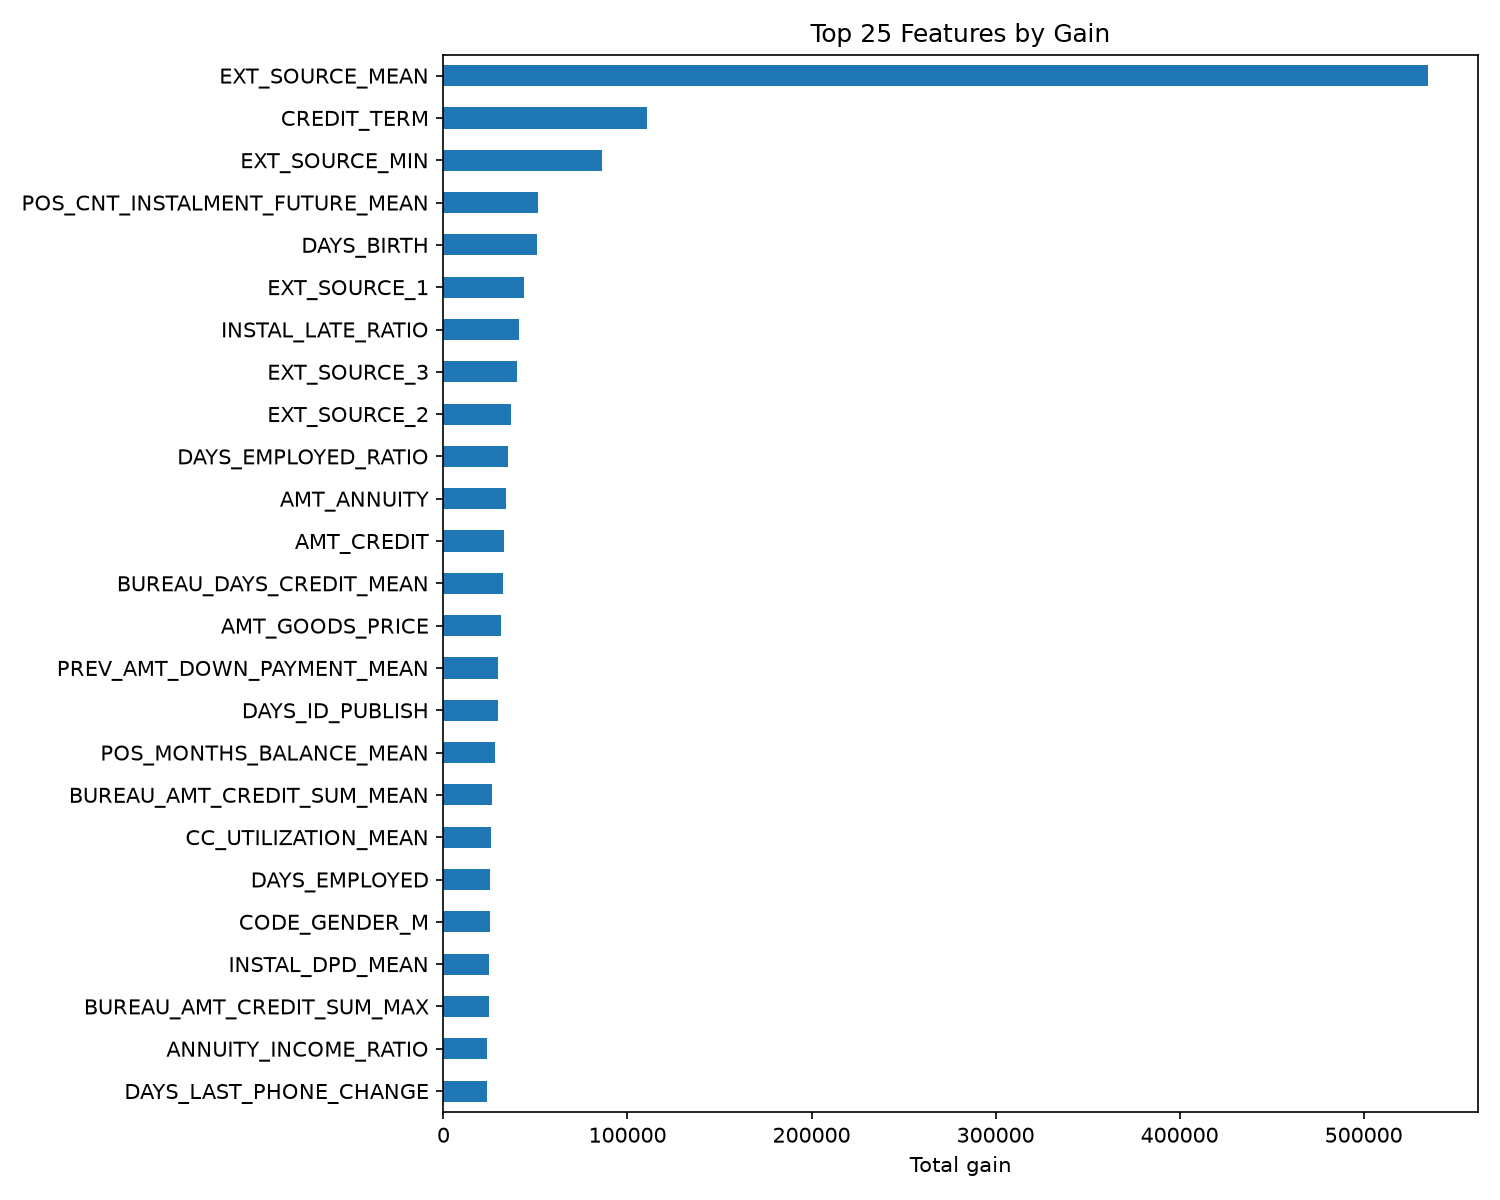
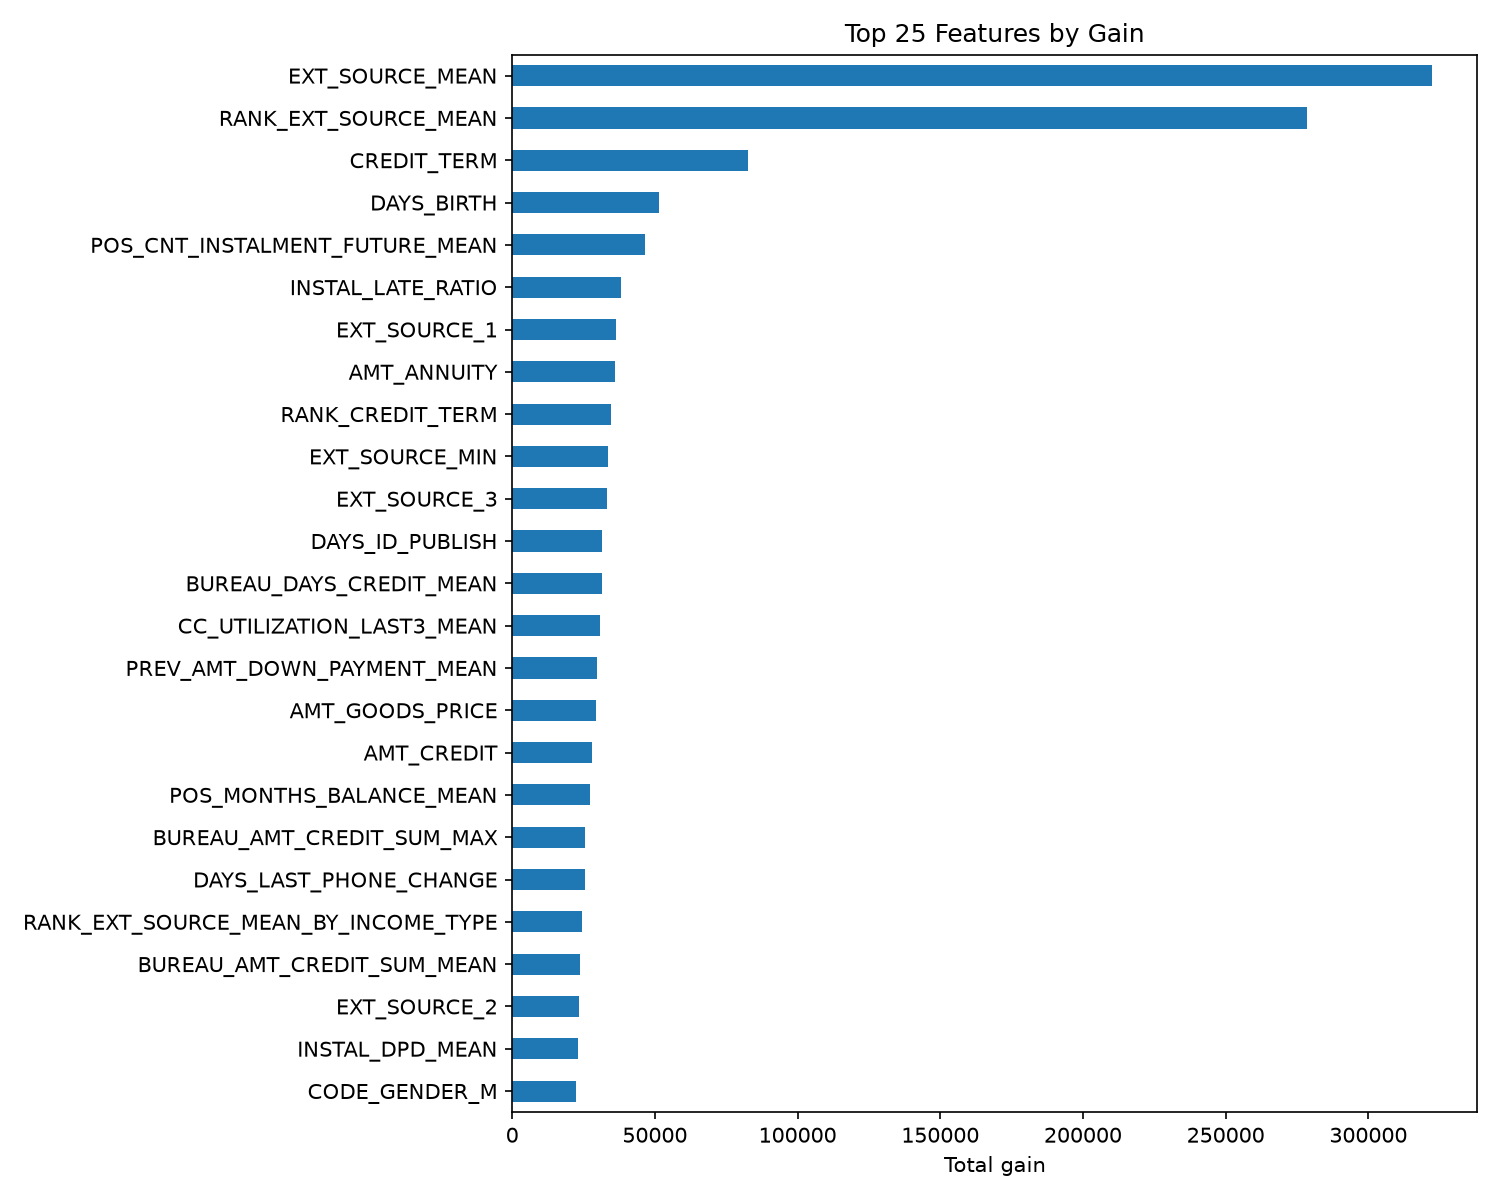
feat: peer-rank and trend/velocity features; retrain (CV AUC 0.7814)
- 6 global RANK_* percentile features + 3 cohort-relative ranks
  (rank edges fit on train, applied frozen to test — no leakage)
- Trend aggregators: last3-vs-full, trend, MoM diff for bureau DPD,
  POS DPD, and CC utilization/balance (33 new features total, 299 in model)
- Regenerated model artifacts: metrics, feature_importance, SHAP explainer
- README: document rank/trend families; recalibration note in Limitations

diff --git a/src/features/feature_engineering.py b/src/features/feature_engineering.py
@@ -133,6 +133,162 @@ def agg_credit_card(cc_df: pd.DataFrame) -> pd.DataFrame:
     return feats
 
 
+# ---------------------------------------------------------------------------
+# Trend / velocity aggregators — capture direction of change, not just level
+# (MONTHS_BALANCE is negative and relative to application date, so the
+# largest values are the most recent months).
+# ---------------------------------------------------------------------------
+
+def _recent_vs_full(sorted_df: pd.DataFrame, group_col: str, col: str,
+                    prefix: str) -> pd.DataFrame:
+    """Per-group last-3-month mean, full-history mean, trend, and MoM diff.
+
+    trend = last3_mean - full_mean  (positive => worsening for DPD/util)
+    diff  = month-over-month change of the series, aggregated mean/max
+    """
+    g = sorted_df.groupby(group_col)
+    feats = pd.DataFrame(index=g.size().index)
+    feats[f"{prefix}_MEAN"] = g[col].mean()
+    recent = g.tail(3).groupby(group_col)[col].mean()
+    feats[f"{prefix}_LAST3_MEAN"] = recent
+    feats[f"{prefix}_TREND"] = feats[f"{prefix}_LAST3_MEAN"] - feats[f"{prefix}_MEAN"]
+    diffs = g[col].diff()
+    feats[f"{prefix}_DIFF_MEAN"] = diffs.groupby(sorted_df[group_col]).mean()
+    feats[f"{prefix}_DIFF_MAX"] = diffs.groupby(sorted_df[group_col]).max()
+    return feats
+
+
+def agg_bureau_trends(bureau_df: pd.DataFrame, bureau_balance_df: pd.DataFrame) -> pd.DataFrame:
+    """Bureau monthly DPD trend features, lifted from loan level to client.
+
+    A client whose bureau DPD is climbing month over month is a different
+    risk than one who has been flat at the same average.
+    """
+    bb = bureau_balance_df.copy()
+    bb["DPD"] = bb["STATUS"].map(STATUS_TO_DPD)
+    bb = bb.sort_values(["SK_ID_BUREAU", "MONTHS_BALANCE"])
+
+    loan_feats = _recent_vs_full(bb, "SK_ID_BUREAU", "DPD", "BB_DPD")
+    bur = bureau_df[["SK_ID_CURR", "SK_ID_BUREAU"]].merge(
+        loan_feats, on="SK_ID_BUREAU", how="inner"
+    )
+    client = bur.groupby("SK_ID_CURR")[loan_feats.columns].mean()
+    client = client.rename(columns={
+        "BB_DPD_LAST3_MEAN": "BUREAU_DPD_LAST3_MEAN",
+        "BB_DPD_TREND": "BUREAU_DPD_TREND",
+        "BB_DPD_DIFF_MEAN": "BUREAU_DPD_DIFF_MEAN",
+        "BB_DPD_DIFF_MAX": "BUREAU_DPD_DIFF_MAX",
+    })
+    return client[["BUREAU_DPD_LAST3_MEAN", "BUREAU_DPD_TREND",
+                   "BUREAU_DPD_DIFF_MEAN", "BUREAU_DPD_DIFF_MAX"]]
+
+
+def agg_pos_trends(pos_df: pd.DataFrame) -> pd.DataFrame:
+    """POS/cash DPD direction-of-change features per SK_ID_CURR."""
+    pos = pos_df.sort_values(["SK_ID_CURR", "MONTHS_BALANCE"])
+    feats = _recent_vs_full(pos, "SK_ID_CURR", "SK_DPD", "POS_SK_DPD")
+    feats = feats.join(_recent_vs_full(pos, "SK_ID_CURR", "SK_DPD_DEF", "POS_SK_DPD_DEF"))
+    return feats
+
+
+def agg_credit_card_trends(cc_df: pd.DataFrame) -> pd.DataFrame:
+    """Credit-card utilization and balance velocity per SK_ID_CURR.
+
+    Rising utilization into the application is the classic distress signal.
+    """
+    cc = cc_df.copy()
+    cc["UTILIZATION"] = cc["AMT_BALANCE"] / (cc["AMT_CREDIT_LIMIT_ACTUAL"] + 1)
+    cc = cc.sort_values(["SK_ID_CURR", "MONTHS_BALANCE"])
+    feats = _recent_vs_full(cc, "SK_ID_CURR", "UTILIZATION", "CC_UTILIZATION")
+    feats = feats.join(_recent_vs_full(cc, "SK_ID_CURR", "AMT_BALANCE", "CC_AMT_BALANCE"))
+    return feats
+
+
+# ---------------------------------------------------------------------------
+# Peer-rank (cross-sectional percentile) features
+# ---------------------------------------------------------------------------
+
+RANKED_FEATURES = [
+    "CREDIT_INCOME_RATIO",
+    "ANNUITY_INCOME_RATIO",
+    "CREDIT_TERM",
+    "DAYS_EMPLOYED_RATIO",
+    "INCOME_PER_PERSON",
+    "EXT_SOURCE_MEAN",
+]
+
+# value feature -> list of cohort columns to rank within
+GROUP_RANKS = {
+    "CREDIT_INCOME_RATIO": ["NAME_INCOME_TYPE", "ORGANIZATION_TYPE"],
+    "EXT_SOURCE_MEAN": ["NAME_INCOME_TYPE"],
+}
+
+RANK_EDGES_PATH = "data/processed/rank_edges.json"
+
+
+def _edges_from_series(s: pd.Series) -> list[float]:
+    """101 quantile cut points (0..1) approximating the full rank distribution."""
+    return [float(v) for v in s.quantile(np.linspace(0, 1, 101))]
+
+
+def _pct_rank(values: pd.Series, edges: list[float]) -> pd.Series:
+    """Percentile of each value against fixed cut points (no refitting)."""
+    return pd.Series(
+        np.searchsorted(np.asarray(edges), values.to_numpy(), side="right") / 100.0,
+        index=values.index,
+    )
+
+
+def _add_rank_features(df: pd.DataFrame, fit_ranks: bool = True,
+                       edges_path: str = RANK_EDGES_PATH) -> pd.DataFrame:
+    """Add RANK_* columns, fit on train / apply frozen cut points to test.
+
+    On the training split the quantile edges (global and per cohort) are
+    computed from train rows only and saved to ``edges_path``; on any later
+    split those same edges are loaded and reused, so test rows never leak
+    into the ranking. Unseen cohort values fall back to the global edges.
+    """
+    import json as _json
+    from pathlib import Path as _Path
+
+    fill = {c: df[c].median() for c in RANKED_FEATURES}
+
+    if fit_ranks:
+        edges: dict = {"__global__": {}, "__groups__": {}}
+        for col in RANKED_FEATURES:
+            filled = df[col].fillna(fill[col])
+            edges["__global__"][col] = _edges_from_series(filled)
+            df[f"RANK_{col}"] = filled.rank(pct=True)
+            for group_col in GROUP_RANKS.get(col, []):
+                df[f"RANK_{col}_BY_{group_col.replace('NAME_', '')}"] = (
+                    filled.groupby(df[group_col]).rank(pct=True)
+                )
+                edges["__groups__"][f"{col}|{group_col}"] = {
+                    str(k): _edges_from_series(v)
+                    for k, v in filled.groupby(df[group_col])
+                }
+        _Path(edges_path).parent.mkdir(parents=True, exist_ok=True)
+        _Path(edges_path).write_text(_json.dumps(edges))
+        print(f"[features] fit rank edges on train -> {edges_path}")
+        return df
+
+    # Apply mode: reuse the training cut points exactly
+    edges = _json.loads(_Path(edges_path).read_text())
+    for col in RANKED_FEATURES:
+        filled = df[col].fillna(fill[col])
+        df[f"RANK_{col}"] = _pct_rank(filled, edges["__global__"][col])
+        for group_col in GROUP_RANKS.get(col, []):
+            group_edges = edges["__groups__"][f"{col}|{group_col}"]
+            out = pd.Series(index=df.index, dtype=float)
+            for name, idx in df.groupby(group_col).groups.items():
+                out.loc[idx] = _pct_rank(
+                    filled.loc[idx], group_edges.get(str(name), edges["__global__"][col])
+                )
+            df[f"RANK_{col}_BY_{group_col.replace('NAME_', '')}"] = out
+    print(f"[features] applied train rank edges (frozen) from {edges_path}")
+    return df
+
+
 def _app_domain_features(df: pd.DataFrame) -> pd.DataFrame:
     """Domain ratios and EXT_SOURCE combos derived from application columns."""
     df["CREDIT_INCOME_RATIO"] = df["AMT_CREDIT"] / (df["AMT_INCOME_TOTAL"] + 1)
@@ -156,6 +312,7 @@ def build_features(
     inst_df: pd.DataFrame,
     cc_df: pd.DataFrame,
     pos_df: pd.DataFrame,
+    fit_ranks: bool = True,
 ) -> pd.DataFrame:
     """Assemble the final modeling table keyed by SK_ID_CURR."""
     df = app_df.copy()
@@ -166,6 +323,9 @@ def build_features(
         "inst": lambda: agg_installments(inst_df),
         "pos": lambda: agg_pos_cash(pos_df),
         "cc": lambda: agg_credit_card(cc_df),
+        "bureau_trends": lambda: agg_bureau_trends(bureau_df, bb_df),
+        "pos_trends": lambda: agg_pos_trends(pos_df),
+        "cc_trends": lambda: agg_credit_card_trends(cc_df),
     }
     for name, build in agg_tables.items():
         print(f"[features] aggregating {name}...", flush=True)
@@ -174,6 +334,9 @@ def build_features(
     print("[features] merging done", flush=True)
 
     df = _app_domain_features(df)
+    # Peer ranks run before one-hot encoding so cohort columns still exist;
+    # fit_ranks=True computes the quantile edges, False reuses them frozen.
+    df = _add_rank_features(df, fit_ranks=fit_ranks)
     obj_cols = df.select_dtypes(include=["object", "str"]).columns.tolist()
     df = pd.get_dummies(df, columns=obj_cols, drop_first=True)
     df = df.replace([np.inf, -np.inf], np.nan).fillna(-999)
@@ -200,6 +363,7 @@ if __name__ == "__main__":
         inst_df=data["installments"],
         cc_df=data["credit_card"],
         pos_df=data["pos_cash"],
+        fit_ranks=(args.split == "train"),
     )
     out = f"data/processed/{args.split}_features.parquet"
     features.to_parquet(out, index=False)

diff --git a/README.md b/README.md
@@ -29,8 +29,8 @@ global feature importance and SHAP summary plots from training.
 
 | Metric | Score |
 |--------|-------|
-| **CV AUC (5-fold)** | **0.781 ± 0.003** |
-| **Gini Coefficient** | **0.562** |
+| **CV AUC (5-fold)** | **0.781 ± 0.004** |
+| **Gini Coefficient** | **0.563** |
 | **Validation AUC (80/20 holdout)** | **0.783** |
 
 *Gini = 2 × AUC − 1, the conventional scale in credit scoring — values above
@@ -44,7 +44,7 @@ The competition's edge isn't the model — it's the features. Five aggregation
 functions collapse six auxiliary tables into one row per applicant:
 
 | Data source | Rows | What was extracted |
-|---|---|---|
+|---|---|---|---|
 | `application_{train,test}.csv` | 307K / 48K | Base demographics, income, loan terms, building info (one-hot encoded) |
 | `bureau.csv` + `bureau_balance.csv` | 1.7M + 27M | Credit count, active/closed mix, credit sums, **monthly days-past-due stats** per client |
 | `previous_application.csv` | 1.7M | Prior application count, approval rate, typical amounts, down payments |
@@ -62,6 +62,26 @@ eyeball first:
 | `CREDIT_TERM` | `AMT_CREDIT / AMT_ANNUITY` | How many years the loan runs (higher = longer exposure) |
 | `DAYS_EMPLOYED_RATIO` | `DAYS_EMPLOYED / DAYS_BIRTH` | Fraction of life spent in stable employment |
 | `INCOME_PER_PERSON` | `AMT_INCOME_TOTAL / CNT_FAM_MEMBERS` | Household income pressure |
+
+Two further feature families extend the flat aggregations:
+
+**Peer-rank (cross-sectional percentile) features.** Each key ratio also gets
+a `RANK_*` version showing where the applicant sits relative to all other
+applicants (`rank(pct=True)`), plus cohort-relative ranks — e.g.
+`RANK_CREDIT_INCOME_RATIO_BY_INCOME_TYPE` and
+`RANK_EXT_SOURCE_MEAN_BY_INCOME_TYPE` — because "risky relative to your
+income bracket" is different from "risky in absolute terms." Quantile cut
+points are fit on the training split only and applied frozen to test, so no
+test row leaks into the ranking.
+
+**Trend / velocity features from the monthly tables.** The monthly-history
+tables (bureau_balance, POS_CASH_balance, credit_card_balance) are time
+series, so beyond level aggregates the pipeline extracts direction of change:
+last-3-month mean vs. full-history mean and their difference (e.g.
+`CC_UTILIZATION_LAST3_MEAN`, `CC_UTILIZATION_TREND`), plus month-over-month
+diff aggregates (`*_DIFF_MEAN`, `*_DIFF_MAX`) for DPD and utilization. A
+customer whose DPD or card utilization is *climbing* month to month is a
+different risk than one who has been flat at the same average.
 
 It pays off: `EXT_SOURCE_MEAN` and `CREDIT_TERM` — both built in this repo —
 rank in the top features by gain.
@@ -200,7 +220,10 @@ they are not calibrated to any real business cost function (the cost of a
 missed default vs. a wrongly declined customer). No fairness or
 disparate-impact testing has been performed across protected attributes.
 Any real deployment would require calibration, fairness audits, and
-regulatory review before informing actual credit decisions.
+regulatory review before informing actual credit decisions. Additionally,
+the peer-rank features are computed against the training population and
+would need periodic recalibration in a real deployment as the applicant
+pool shifts over time.
 
 ## 📄 License
 
